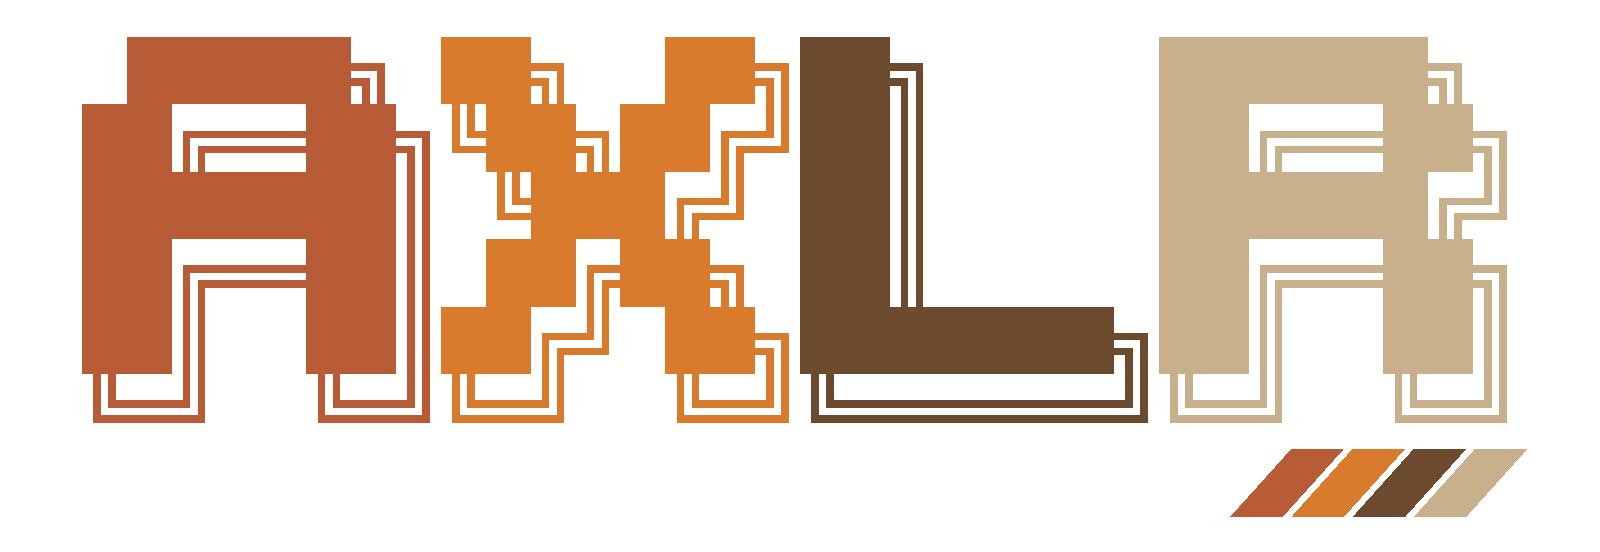
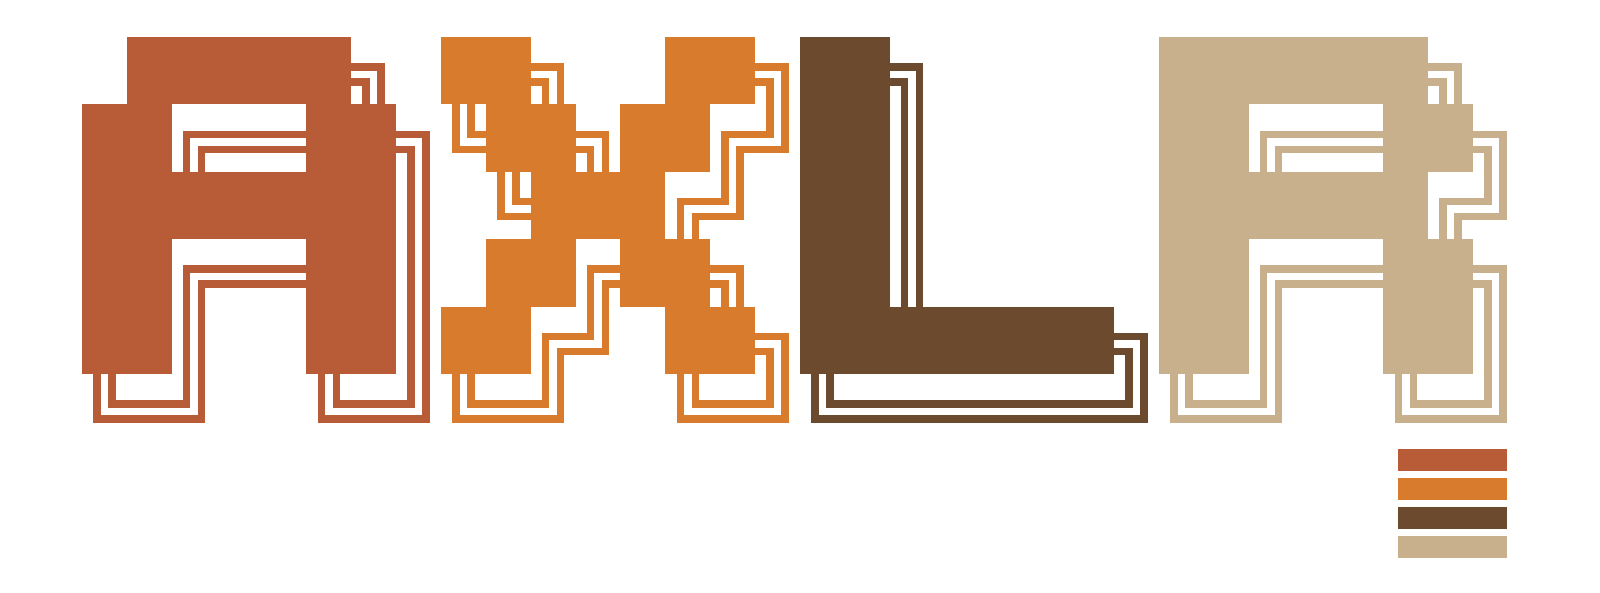
Stack Spectrum bars vertically into a square (#20)
* brand: stack Spectrum bars into a square

* brand: clean up square bars with straight ends

---------

diff --git a/tools/pixelart/README.md b/tools/pixelart/README.md
@@ -22,9 +22,11 @@ node tools/pixelart/cli.mjs --out /absolute/site/public/brands
 
 ## Edit a logo
 
-[`logos.json`](logos.json) is the source of truth. Each definition has a canvas, origin, cell size, terminal-art rows, ink rules and optional Spectrum placement. Each product has its own four-color palette; all three share the diagonal bar geometry. Row ink gives KMP its existing sweep, using copper twice, gold once, brown once and sand twice. Column runs assign the four colors in order to MADE and AXLR's letters. Spaces count as columns. Use only `█`, `╔`, `╗`, `╚`, `╝`, `║`, `═` and space; the renderer expands them into explicit rectangles, independently of installed fonts.
+[`logos.json`](logos.json) is the source of truth. Each definition has a canvas, origin, cell size, terminal-art rows, ink rules and optional Spectrum placement. Each product has its own four-color palette; all three share the square bar geometry. Row ink gives KMP its existing sweep, using copper twice, gold once, brown once and sand twice. Column runs assign the four colors in order to MADE and AXLR's letters. Spaces count as columns. Use only `█`, `╔`, `╗`, `╚`, `╝`, `║`, `═` and space; the renderer expands them into explicit rectangles, independently of installed fonts.
 
-`spectrum.colors` specifies exactly four palette keys, in left-to-right bar order. Those keys can differ between logos without changing their geometry. Older manifests that omit this field use `red`, `yellow`, `green` and `cyan`, which must exist in their palette. The current product palettes are listed in the [asset pack](../../docs/assets/brand/README.md).
+`spectrum.layout: "square"` stacks four horizontal bars with straight ends in a 64 × 64 unit block, scaled by `spectrum.scale`. Each bar spans the full 64-unit width and is 13 units high, with 4-unit transparent gaps. All three products use this block below the wordmark, aligned with its right edge. Omitting `layout`, or setting `"horizontal"`, preserves the original diagonal 175 × 40 unit arrangement for other uses.
+
+`spectrum.colors` specifies exactly four palette keys, in top-to-bottom order for the square and left-to-right order for the horizontal arrangement. Those keys can differ between logos without changing their geometry. Older manifests that omit this field use `red`, `yellow`, `green` and `cyan`, which must exist in their palette. The current product palettes are listed in the [asset pack](../../docs/assets/brand/README.md).
 
 KMP's rows and geometry match its current public SVG and CLI mark. MADE's rows and geometry match its distinct current public SVG, with secondary text removed. AXLR's rows reconstruct the supplied raster's letters, cell proportions and stepped outlines as vector shapes. The original raster stays in `docs/assets/axlr-wordmark.png` as a visual reference. Exports intentionally have solid pixel edges and transparent gaps; no dark matte or embedded bitmap is included.
 

diff --git a/docs/documentation-audit.md b/docs/documentation-audit.md
@@ -24,6 +24,7 @@ Historical design notes remain available as records of decisions. Current behavi
 |:--|:--|:--|
 | Logos had no reproducible shared source | AXLR was a flattened raster; KMP and MADE had separate SVG exports | Added the [pixel renderer](../tools/pixelart/README.md), editable terminal-art definitions, six transparent exports and a CI drift check. Before recoloring, MADE's generated lettering matched the current upstream `made-cuatro-voces.png` pixel for pixel at 2× scale. The later palette change preserves that geometry. |
 | Product palettes changed after the shared exports | The user supplied four distinct copper, gold, brown and sand colors per product | Applied the exact [product palettes](assets/brand/README.md) to lettering and bars, added per-logo bar color configuration and regenerated the documentation, website and GitHub profile assets. |
+| The bars should form a clean square | The user requested vertical stacking and rejected the bars' corner cuts | Added the reusable square layout: four horizontal bars with equal widths, straight ends and uniform transparent gaps, aligned below each wordmark's right edge. Updated export dimensions and website image metadata; lettering and palettes are unchanged. |
 | One-launch KMP setup could select another store | The example passed a manifest without its configured `KMP_MCP_DATA_DIR` | The runbook now forwards an explicit absolute store for that launch and pins embedded mode in persistent configuration. |
 | The quick start understated saved approvals | `tui/application/automatic_tool_approval_test.go` covers exact-tool grants and full autonomy | The first-run guide now names those saved policies and `/approvals`. |
 | Symlink wording overstated the read restriction | `FileAdapter.Read` opens through `os.Root`; `Load` separately rejects symlinks for editing | The worker guide distinguishes an in-root read target from an escape and a mutable regular file. |

diff --git a/docs/brand.md b/docs/brand.md
@@ -2,7 +2,7 @@
 
 ![AXLR pixel-art wordmark with Spectrum bars](assets/brand/axlr-spectrum.svg)
 
-This is the AXLR wordmark supplied for the project, recolored with its copper, gold, brown and sand palette: `#B85C38`, `#D97B2D`, `#6B4A2E` and `#C9B08C`. Its block letters, stepped outlines and four diagonal Spectrum bars form the visual language used in the documentation. KMP and MADE share the bar geometry and have their own palettes.
+This is the AXLR wordmark supplied for the project, recolored with its copper, gold, brown and sand palette: `#B85C38`, `#D97B2D`, `#6B4A2E` and `#C9B08C`. Its block letters, stepped outlines and four horizontal Spectrum bars form the visual language used in the documentation. The bars have equal widths, straight ends and uniform transparent gaps, stacked vertically into a square at the lower right. KMP and MADE share the bar geometry and have their own palettes.
 
 The repository keeps the supplied [PNG wordmark](assets/axlr-wordmark.png) at its original 1600 × 479 resolution. The [transparent AXLR SVG](assets/brand/axlr-spectrum.svg) reconstructs those letters and adds the four Spectrum bars. The [brand asset pack](assets/brand/README.md) contains transparent KMP, MADE and AXLR logos in both SVG and PNG. Preserve each asset's aspect ratio. For text-only contexts, write **AXLR**. The wordmark itself contains the complete lettering, so do not crop a letter as a substitute icon.
 

diff --git a/docs/assets/brand/README.md b/docs/assets/brand/README.md
@@ -2,11 +2,11 @@
 
 | Product | Vector | Raster | Dimensions |
 | --- | --- | --- | --- |
-| KMP | [SVG](kmp-spectrum.svg) | [PNG](kmp-spectrum.png) | 712 × 300 |
-| MADE | [SVG](made-spectrum.svg) | [PNG](made-spectrum.png) | 936 × 350 |
-| AXLR | [SVG](axlr-spectrum.svg) | [PNG](axlr-spectrum.png) | 1600 × 552 |
+| KMP | [SVG](kmp-spectrum.svg) | [PNG](kmp-spectrum.png) | 712 × 320 |
+| MADE | [SVG](made-spectrum.svg) | [PNG](made-spectrum.png) | 936 × 374 |
+| AXLR | [SVG](axlr-spectrum.svg) | [PNG](axlr-spectrum.png) | 1600 × 593 |
 
-All exports have transparent backgrounds and the same four diagonal Spectrum bar shapes. Each product uses its own palette, in the following order for the bars and for MADE and AXLR's letters:
+All exports have transparent backgrounds and four horizontal Spectrum bars stacked vertically to form a square. The bars have equal widths and straight ends, with uniform transparent gaps. The block sits below the wordmark, aligned with its right edge. Each product uses its own palette, in the following top-to-bottom order for the bars and left-to-right order for MADE and AXLR's letters:
 
 | Product | Copper | Gold | Brown | Sand |
 | --- | --- | --- | --- | --- |
